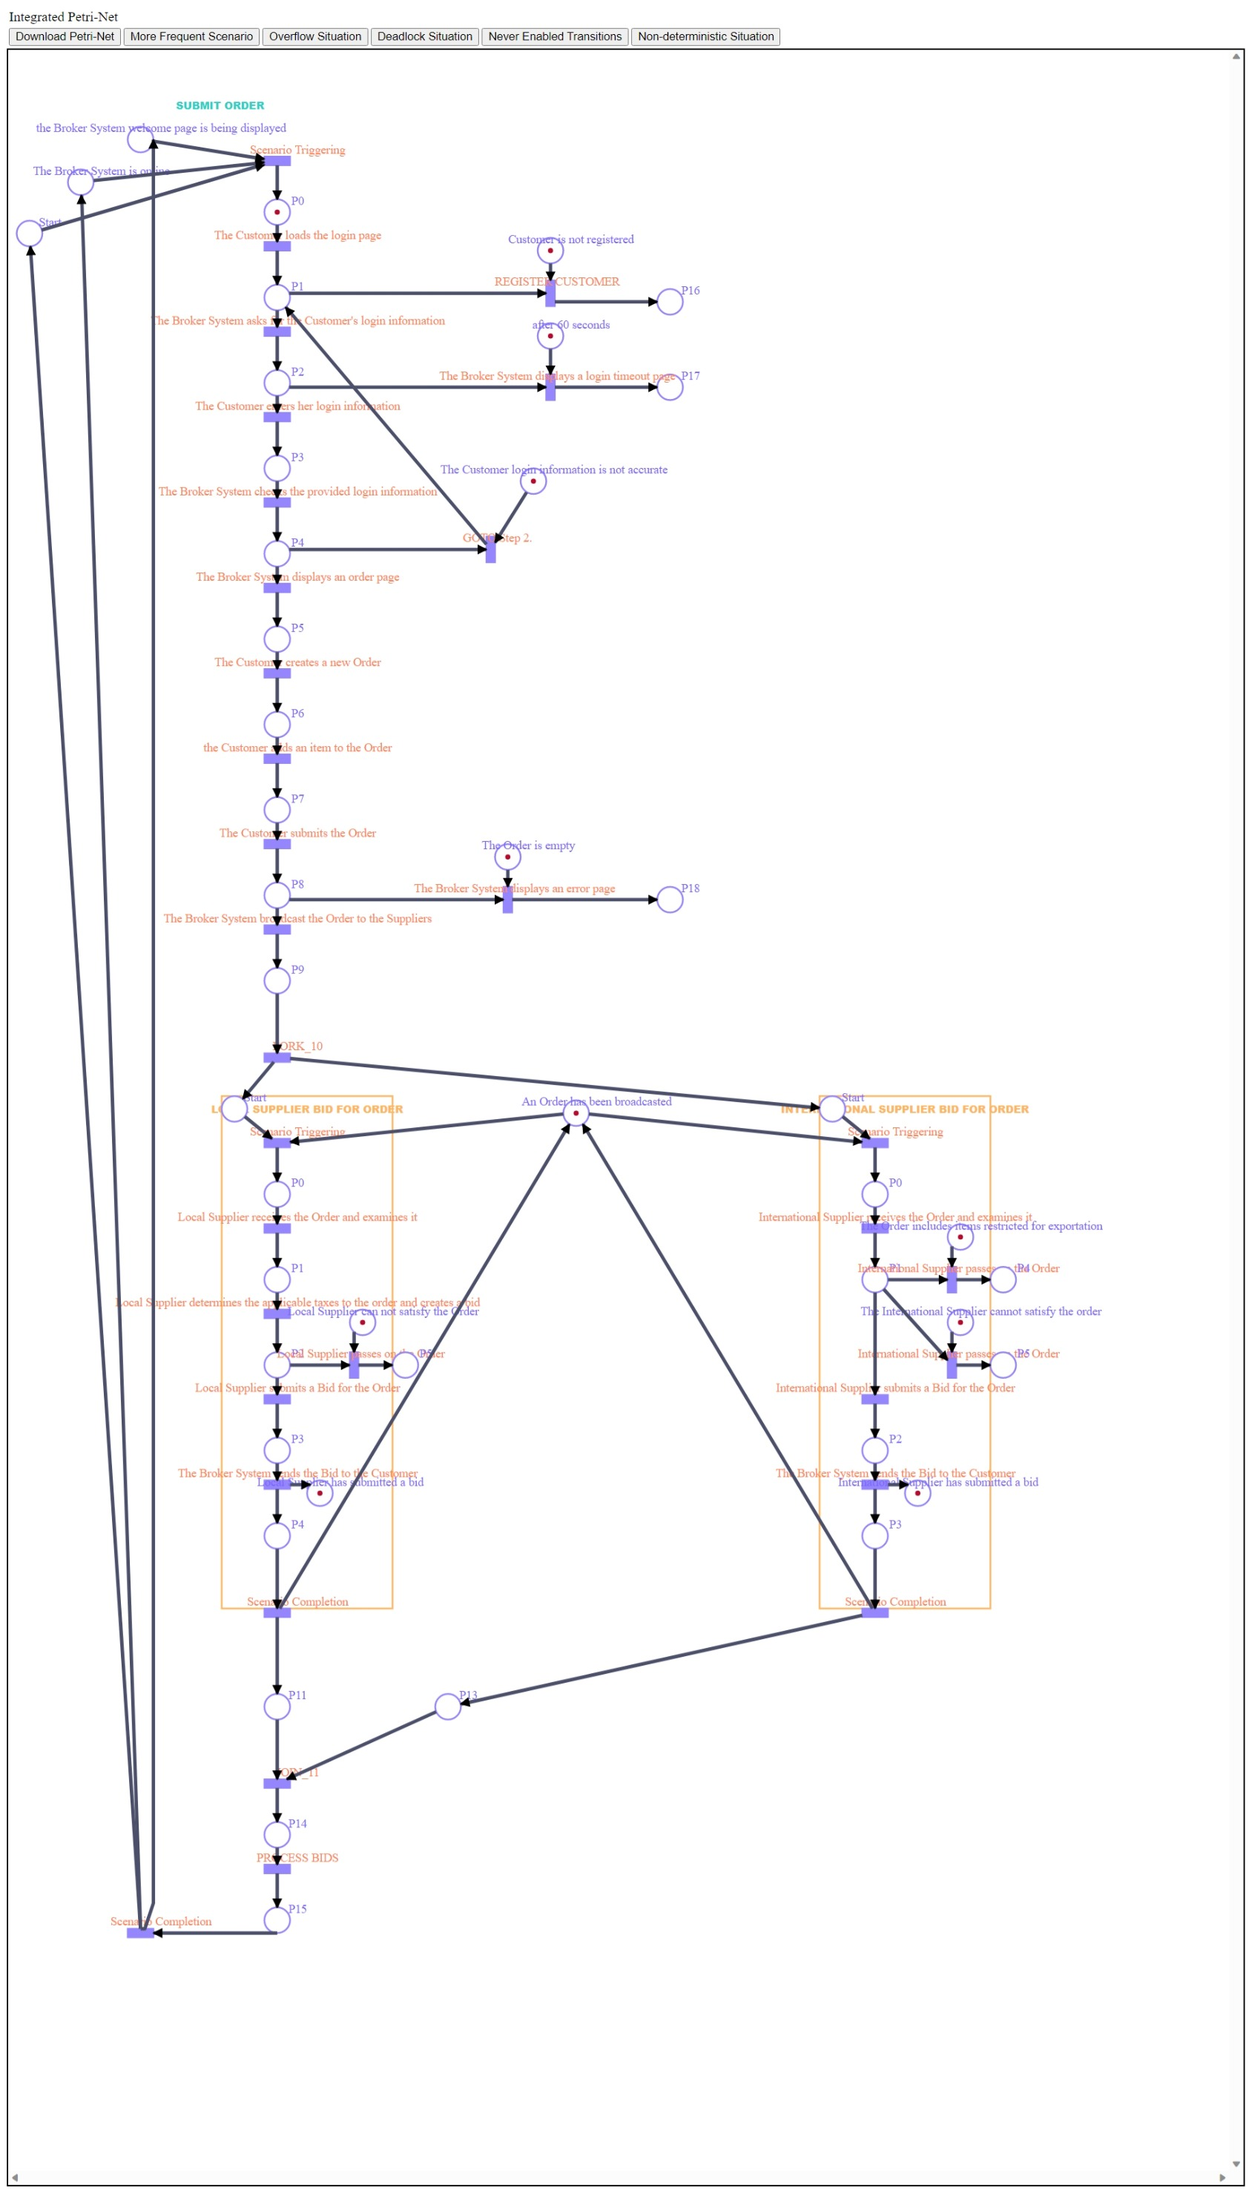
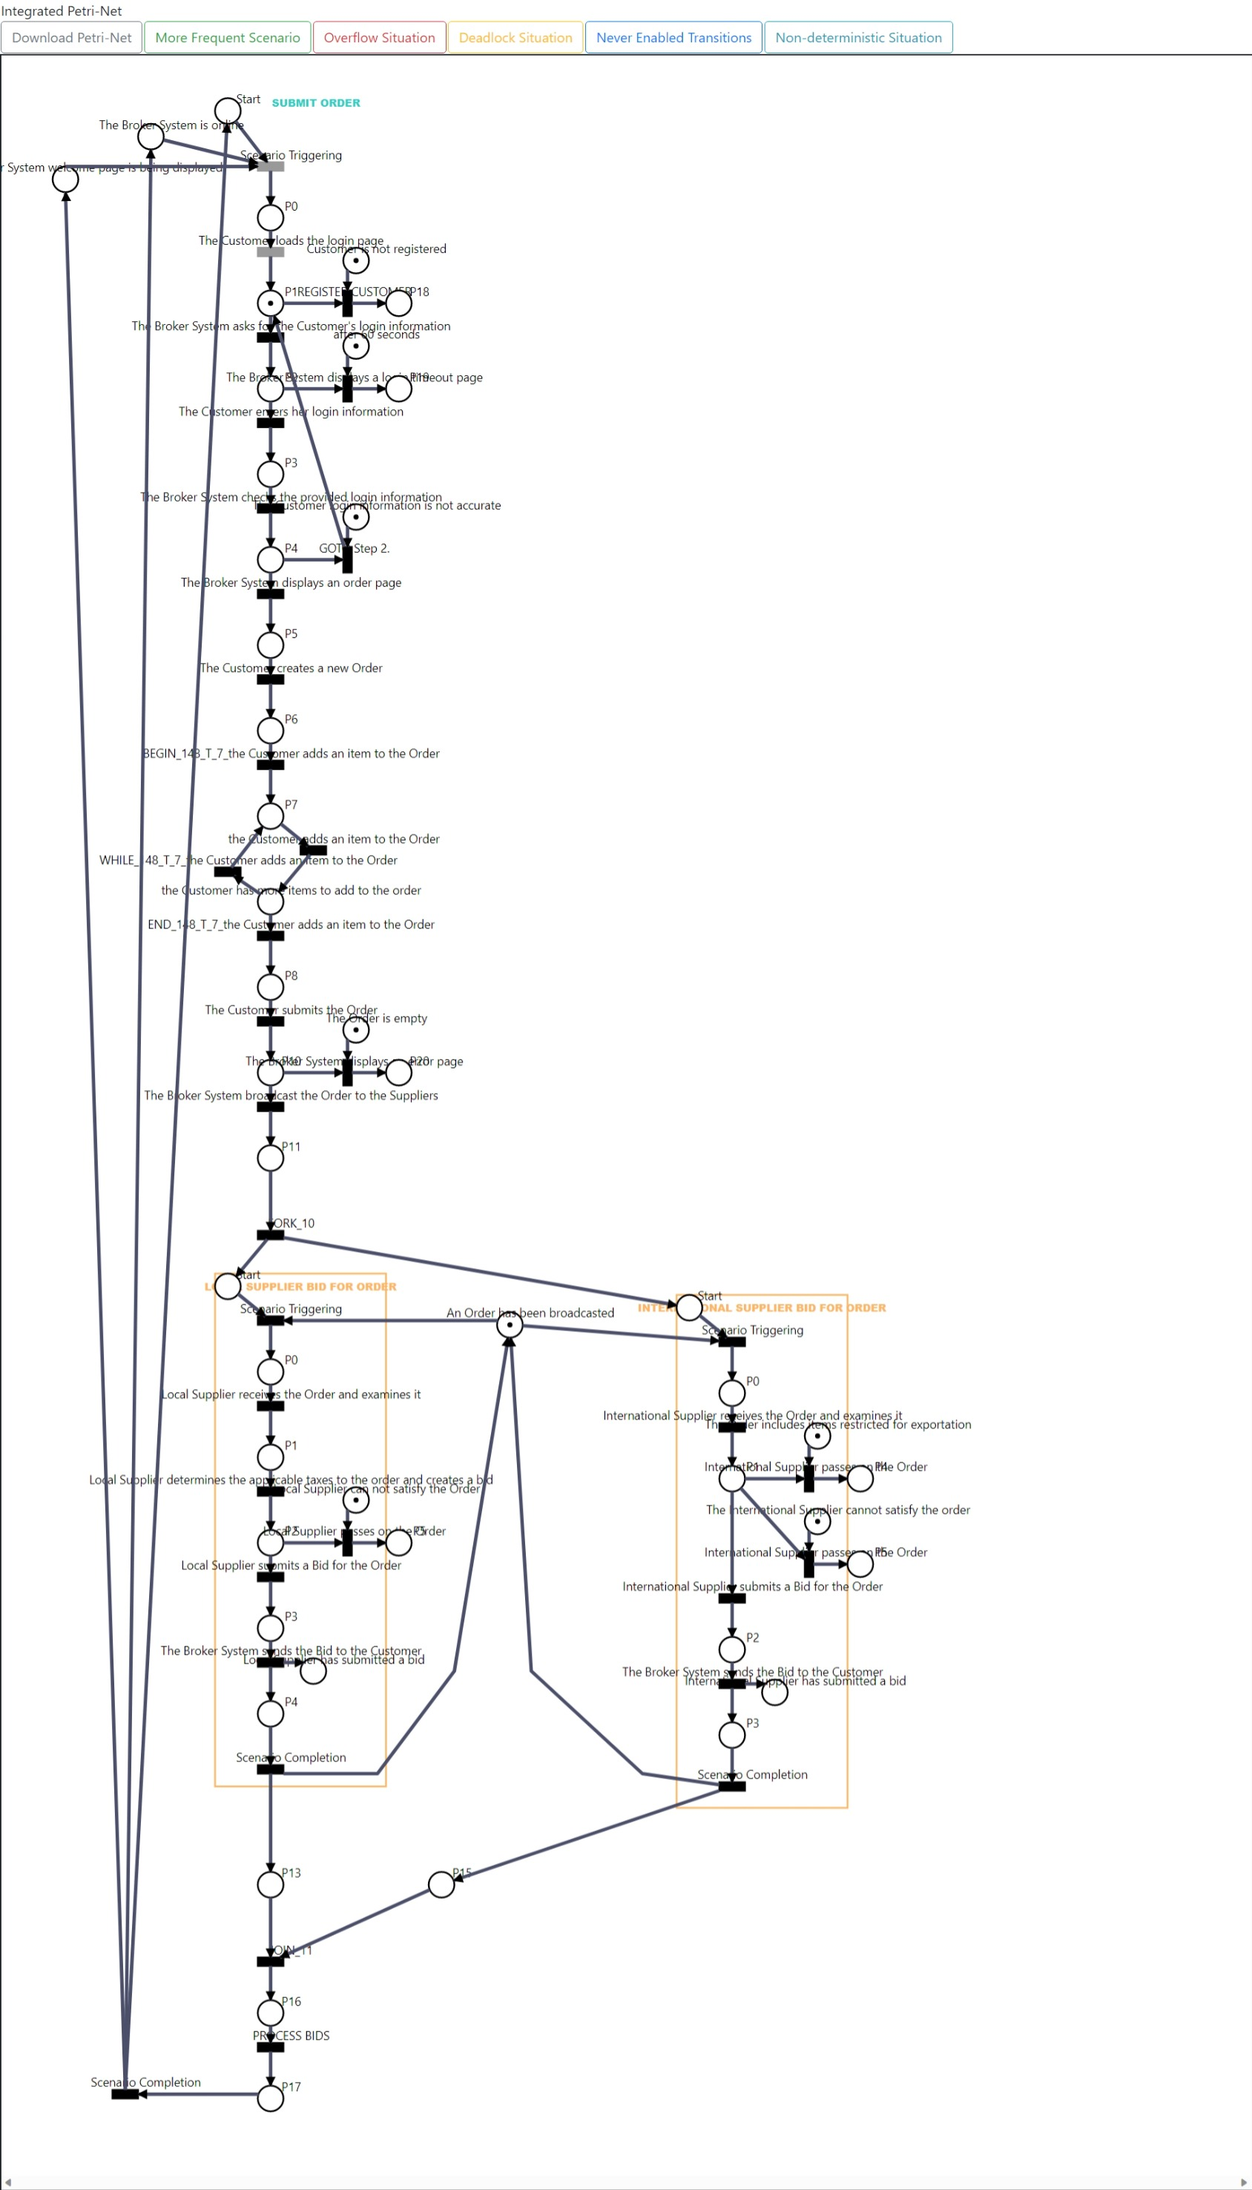
Update Petri-Net Analysis - Execution

diff --git a/src/main/webapp/assets/js/app/ajax_functions_petri_nets_joint.js b/src/main/webapp/assets/js/app/ajax_functions_petri_nets_joint.js
@@ -194,7 +194,7 @@ function linkById(a_id, b_id) {
 }
 
 //Petri Net Simulation
-function fireTransition(t, sec) {
+function fireTransition(t, sec, color_hex_mark) {
 
     var inbound = graph.getConnectedLinks(t, { inbound: true });
     var outbound = graph.getConnectedLinks(t, { outbound: true });
@@ -217,9 +217,9 @@ function fireTransition(t, sec) {
 
         placesBefore.forEach(function(p) {
             //enable transition
-			t.attr('.label/fill', '#b6092e');
-			t.attr('.root/fill', '#b6092e');
-			t.attr('.root/stroke', '#b6092e');
+			t.attr('.label/fill', color_hex_mark);
+			t.attr('.root/fill', color_hex_mark);
+			t.attr('.root/stroke', color_hex_mark);
 			// Let the execution finish before adjusting the value of tokens. So that we can loop over all transitions
             // and call fireTransition() on the original number of tokens.
             setTimeout(function() {
@@ -256,18 +256,18 @@ function fireTransition(t, sec) {
     }
 }
 // JSON transitions
-function simulate(transitions) {
+function simulate(transitions, color_hex_mark) {
 	
     transitions.forEach(function(t) {
         if (Math.random() < 0.7) {
-            fireTransition(t, 1);
+            fireTransition(t, 1, color_hex_mark);
         }
     });
 
     return setInterval(function() {
         transitions.forEach(function(t) {
             if (Math.random() < 0.7) {
-                fireTransition(t, 1);
+                fireTransition(t, 1, color_hex_mark);
             }
         });
     }, 2000);
@@ -278,7 +278,7 @@ function simulateHappyPath(transitions) {
 	if(simulationId != null)
 		stopSimulation(simulationId);
     
-    simulate(transitions);
+    simulate(transitions, "#4b9f27");
 }
 
 function simulateDeadlock(pathToDeadlock) {
@@ -299,7 +299,7 @@ function simulateDeadlock(pathToDeadlock) {
 		
 	}
 	
-	simulate(transitions);
+	simulate(transitions, "#E1AD0F");
 	
 }
 
@@ -347,10 +347,10 @@ function simulateNeverEnabledTransitions(neverEnabledTransitions) {
 	}
 	
 	transitions.forEach(function(t) {		
-		t.attr('.label/fill', '#f44336');
+		t.attr('.label/fill', '#1D61E1');
 		
-		t.attr('.root/fill', '#f44336');
-		t.attr('.root/stroke', '#f44336');
+		t.attr('.root/fill', '#1D61E1');
+		t.attr('.root/stroke', '#1D61E1');
 	});
 }
 
@@ -376,10 +376,10 @@ function simulateNonDeterminism(nonDeterminismTransitions) {
 	}
 	
 	transitions.forEach(function(t) {		
-		t.attr('.label/fill', '#f44336');
+		t.attr('.label/fill', '#25A4C2');
 		
-		t.attr('.root/fill', '#f44336');
-		t.attr('.root/stroke', '#f44336');
+		t.attr('.root/fill', '#25A4C2');
+		t.attr('.root/stroke', '#25A4C2');
 	});
 }
 
@@ -461,7 +461,7 @@ function show_petri_net(scenario_id){
 					
 				}	
 				
-				else if (type_node == "TRANSITION" || type_node == "TRANSITION_ALTERNATIVE") {
+				else if (type_node == "TRANSITION" || type_node == "TRANSITION_ALTERNATIVE"  || type_node == "TRANSITION_ELSE"  || type_node == "TRANSITION_DO_WHILE") {
 					var transition = createTransition(id_node, name_node, pos_x_node, pos_y_node, orientation_node);
 					jsonNodes.push(transition);
 					if (type_node == "TRANSITION")
@@ -636,7 +636,7 @@ function show_integrated_petri_net(project_id, scenario_id){
 						
 					}
 					
-				} else if (type_node == "TRANSITION" || type_node == "TRANSITION_ALTERNATIVE") {
+				} else if (type_node == "TRANSITION" || type_node == "TRANSITION_ALTERNATIVE"  || type_node == "TRANSITION_ELSE"  || type_node == "TRANSITION_DO_WHILE") {
 					var transition = createTransition(id_node, name_node, pos_x_node, pos_y_node, orientation_node);
 					jsonNodes.push(transition);
 					if (type_node == "TRANSITION")

diff --git a/src/main/java/pe/edu/unsa/daisi/lis/cel/service/PetriNetServiceImpl.java b/src/main/java/pe/edu/unsa/daisi/lis/cel/service/PetriNetServiceImpl.java
@@ -329,7 +329,7 @@ public class PetriNetServiceImpl implements IPetriNetService {
 				if(episode.isConditional() || episode.isOptional()) {//transitionEpisodeSentence.getLabel()+"_ELSE",
 					dummyTransition = new Node("ELSE_"+transitionEpisodeSentence.getLabel(),
 							scenario.getId() +LABEL_COMPONENTS_DELIMITER+ NodeTypeEnum.TRANSITION.getAcronym() + LABEL_COMPONENTS_DELIMITER + episodeId + LABEL_COMPONENTS_DELIMITER + "ELSE",
-							ScenarioElement.EPISODE_SENTENCE.getScenarioElement().replace("<id>", episodeId), NodeTypeEnum.TRANSITION);
+							ScenarioElement.EPISODE_SENTENCE.getScenarioElement().replace("<id>", episodeId), NodeTypeEnum.TRANSITION_ELSE);
 
 					//dummyTransition.setTimed(true);
 					dummyTransition.setDummy(true);
@@ -346,35 +346,39 @@ public class PetriNetServiceImpl implements IPetriNetService {
 
 					//Conditions
 					currentPositionX = transitionEpisodeSentence.getPositionX();
-					for(String condition : episode.getConditions()) {
-						if(condition != null && !condition.isEmpty()) {
-							Node node = new Node(condition, condition, ScenarioElement.EPISODE_CONDITION.getScenarioElement().replace("<id>", episodeId), NodeTypeEnum.PLACE_WITH_TOKEN);
-							node.setTokens(1);
-							currentPositionX = currentPositionX - INCREMENT_X;
-							node.setPositionX(currentPositionX);
-							node.setPositionY(currentPositionY - INCREMENT_Y);
-							node = petriNet.addNode( node);
-
-							if(petriNet.getMinPositionX() > node.getPositionX())
-								petriNet.setMinPositionX(node.getPositionX());
-
-
-							arc = new Arc(ArcTypeEnum.ARC, node, transitionEpisodeSentence);
-							arc = petriNet.addArc( arc);
-							//arc = new Arc(ArcType.ARC, transitionEpisodeSentence, node);
-							//petriNet = addArc( arc);
-						}
-					}
+					
+					//Update input dummy place with conditions
+					String conditions = String.join("|", episode.getConditions());
+					inputDummyPlace.setName(conditions);
+					inputDummyPlace.setLabel(conditions);
+					inputDummyPlace.setTrace(ScenarioElement.EPISODE_CONDITION.getScenarioElement().replace("<id>", episodeId));
+					inputDummyPlace = petriNet.updateNodeById(inputDummyPlace);
+					
+//					for(String condition : episode.getConditions()) {
+//						if(condition != null && !condition.isEmpty()) {
+//							Node node = new Node(condition, condition, ScenarioElement.EPISODE_CONDITION.getScenarioElement().replace("<id>", episodeId), NodeTypeEnum.PLACE_WITH_TOKEN);
+//							node.setTokens(1);
+//							currentPositionX = currentPositionX - INCREMENT_X;
+//							node.setPositionX(currentPositionX);
+//							node.setPositionY(currentPositionY - INCREMENT_Y);
+//							node = petriNet.addNode( node);
+//
+//							if(petriNet.getMinPositionX() > node.getPositionX())
+//								petriNet.setMinPositionX(node.getPositionX());
+//
+//							arc = new Arc(ArcTypeEnum.ARC, node, transitionEpisodeSentence);
+//							petriNet.addArc( arc);						
+//						}
+//					}
 
 				}
-				currentPositionY = outputDummyPlace.getPositionY();
 				currentPositionY = outputDummyPlace.getPositionY();
 				
 				lastTransitionEpisode = transitionEpisodeSentence;
 
 			}
 
-			if(episode.isIterativeDoWhile() || episode.isIterativeWhileDo() || episode.isIterativeForEachDo()) {//transitionEpisodeSentence.getLabel()+"_WHILE",
+			if(episode.isIterativeDoWhile() || episode.isIterativeWhileDo() || episode.isIterativeForEachDo()) {
 				//BEGIN transition
 				Node beginStructTransition = new Node("BEGIN_"+transitionEpisodeSentence.getLabel(),
 						scenario.getId() +LABEL_COMPONENTS_DELIMITER+ NodeTypeEnum.TRANSITION.getAcronym() + LABEL_COMPONENTS_DELIMITER + episodeId + LABEL_COMPONENTS_DELIMITER + "BEGIN",
@@ -425,7 +429,7 @@ public class PetriNetServiceImpl implements IPetriNetService {
 				arc = new Arc(ArcTypeEnum.ARC, inputDummyPlace, beginStructTransition);
 				arc = petriNet.addArc(arc);
 
-				//Create Output Place of BEGIN transition
+				//Create Output Place of BEGIN transition - ODPL
 				Node outDummyPlaceLoopBegin = new Node(NodeTypeEnum.PLACE.getAcronym()+countDummyPlaces, NodeTypeEnum.PLACE.getAcronym()+countDummyPlaces, ScenarioElement.EPISODE_ID.getScenarioElement().replace("<id>", episodeId), NodeTypeEnum.PLACE);
 				outDummyPlaceLoopBegin.setDummy(true);
 				outDummyPlaceLoopBegin.setPositionX(currentPositionX);
@@ -470,14 +474,14 @@ public class PetriNetServiceImpl implements IPetriNetService {
 
 				}
 
-				//Create Xput Place
-				Node xDummyPlaceLoop = new Node(NodeTypeEnum.PLACE.getAcronym()+countDummyPlaces, NodeTypeEnum.PLACE.getAcronym()+countDummyPlaces, ScenarioElement.EPISODE_ID.getScenarioElement().replace("<id>", episodeId), NodeTypeEnum.PLACE);
-				xDummyPlaceLoop.setDummy(true);
-				xDummyPlaceLoop.setPositionX(currentPositionX - INCREMENT_X);
-				xDummyPlaceLoop.setPositionY(currentPositionY + INCREMENT_Y);
-
-				xDummyPlaceLoop = petriNet.addNode(xDummyPlaceLoop);
-				countDummyPlaces++;
+				//Create Xput Place - XDPL
+//				Node xDummyPlaceLoop = new Node(NodeTypeEnum.PLACE.getAcronym()+countDummyPlaces, NodeTypeEnum.PLACE.getAcronym()+countDummyPlaces, ScenarioElement.EPISODE_ID.getScenarioElement().replace("<id>", episodeId), NodeTypeEnum.PLACE);
+//				xDummyPlaceLoop.setDummy(true);
+//				xDummyPlaceLoop.setPositionX(currentPositionX - INCREMENT_X);
+//				xDummyPlaceLoop.setPositionY(currentPositionY + INCREMENT_Y);
+//
+//				xDummyPlaceLoop = petriNet.addNode(xDummyPlaceLoop);
+//				countDummyPlaces++;
 
 				//END transition
 				Node endStructTransition = new Node("END_"+transitionEpisodeSentence.getLabel(),
@@ -486,9 +490,11 @@ public class PetriNetServiceImpl implements IPetriNetService {
 
 				//endStructTransition.setTimed(true);
 				endStructTransition.setDummy(true);
-				currentPositionX = xDummyPlaceLoop.getPositionX();
-				endStructTransition.setPositionX(currentPositionX + INCREMENT_X);
-				currentPositionY = xDummyPlaceLoop.getPositionY() + INCREMENT_Y;
+				//currentPositionX = xDummyPlaceLoop.getPositionX();
+				currentPositionX = transitionEpisodeSentence.getPositionX();
+				endStructTransition.setPositionX(currentPositionX - INCREMENT_X);
+				//currentPositionY = xDummyPlaceLoop.getPositionY() + INCREMENT_Y;
+				currentPositionY = transitionEpisodeSentence.getPositionY() + 2*INCREMENT_Y;
 				endStructTransition.setPositionY(currentPositionY);
 				
 				endStructTransition = petriNet.addNode(endStructTransition);
@@ -537,16 +543,16 @@ public class PetriNetServiceImpl implements IPetriNetService {
 
 
 				Node dummyTransition = null;
-				currentPositionX = transitionEpisodeSentence.getPositionX();
+				//currentPositionX = transitionEpisodeSentence.getPositionX();
 				//Create Input Places and transitions from DO-WHILE episode
 				if(episode.isIterativeDoWhile()) {//transitionEpisodeSentence.getLabel()+"_WHILE",
 					dummyTransition = new Node("WHILE_"+transitionEpisodeSentence.getLabel(),
 							scenario.getId() +LABEL_COMPONENTS_DELIMITER+ NodeTypeEnum.TRANSITION.getAcronym() + LABEL_COMPONENTS_DELIMITER + episodeId + LABEL_COMPONENTS_DELIMITER + "WHILE",
-							ScenarioElement.EPISODE_SENTENCE.getScenarioElement().replace("<id>", episodeId), NodeTypeEnum.TRANSITION);
+							ScenarioElement.EPISODE_SENTENCE.getScenarioElement().replace("<id>", episodeId), NodeTypeEnum.TRANSITION_DO_WHILE);
 
 					//dummyTransition.setTimed(true);
 					dummyTransition.setDummy(true);
-					dummyTransition.setPositionX(currentPositionX - 2*INCREMENT_X);
+					dummyTransition.setPositionX(currentPositionX - INCREMENT_X);
 					dummyTransition.setPositionY(transitionEpisodeSentence.getPositionY() + SMALL_INCREMENT_Y);
 					dummyTransition = petriNet.addNode(dummyTransition);
 					//countTransitions++;
@@ -557,36 +563,44 @@ public class PetriNetServiceImpl implements IPetriNetService {
 					arc = new Arc(ArcTypeEnum.ARC, outDummyPlaceLoopBegin, transitionEpisodeSentence);
 					arc = petriNet.addArc(arc);
 
-					arc = new Arc(ArcTypeEnum.ARC, transitionEpisodeSentence, xDummyPlaceLoop);
-					arc = petriNet.addArc(arc);
-
-					arc = new Arc(ArcTypeEnum.ARC, xDummyPlaceLoop, dummyTransition);
-					arc = petriNet.addArc(arc);
-
-					arc = new Arc(ArcTypeEnum.ARC, xDummyPlaceLoop, endStructTransition);
-					arc = petriNet.addArc(arc);
-
-
 					//Conditions
-					currentPositionX = dummyTransition.getPositionX();
-					for(String condition : episode.getConditions()) {
-						if(condition != null && !condition.isEmpty()) {
-							Node node = new Node(condition, condition, ScenarioElement.EPISODE_CONDITION.getScenarioElement().replace("<id>", episodeId), NodeTypeEnum.PLACE_WITH_TOKEN);
-							node.setTokens(1);
-							currentPositionX = currentPositionX - INCREMENT_X;
-							node.setPositionX(currentPositionX);
-							node.setPositionY(dummyTransition.getPositionY() - INCREMENT_Y);
-							node = petriNet.addNode( node);
+					//currentPositionX = dummyTransition.getPositionX();
+//					for(String condition : episode.getConditions()) {
+//						if(condition != null && !condition.isEmpty()) {
+//							Node node = new Node(condition, condition, ScenarioElement.EPISODE_CONDITION.getScenarioElement().replace("<id>", episodeId), NodeTypeEnum.PLACE_WITH_TOKEN);
+//							node.setTokens(1);
+//							currentPositionX = currentPositionX - INCREMENT_X;
+//							node.setPositionX(currentPositionX);
+//							node.setPositionY(dummyTransition.getPositionY() - INCREMENT_Y);
+//							node = petriNet.addNode( node);
+//
+//							if(petriNet.getMinPositionX() > node.getPositionX())
+//								petriNet.setMinPositionX(node.getPositionX());
+//
+//							arc = new Arc(ArcTypeEnum.ARC, node, dummyTransition);
+//							petriNet.addArc( arc);							
+//						}
+//					}
+					
+					//Update input dummy place with conditions
+					currentPositionX = endStructTransition.getPositionX();
+					currentPositionY = endStructTransition.getPositionY() + INCREMENT_Y ;
+					String conditions = String.join("|", episode.getConditions());
+					Node conditionsPlace = new Node(conditions, conditions, ScenarioElement.EPISODE_CONDITION.getScenarioElement().replace("<id>", episodeId), NodeTypeEnum.PLACE);
+					conditionsPlace.setPositionX(currentPositionX);
+					conditionsPlace.setPositionY(currentPositionY - 2*INCREMENT_Y);	
+					conditionsPlace = petriNet.addNode(conditionsPlace);
+					countDummyPlaces++;
+					
+					arc = new Arc(ArcTypeEnum.ARC, transitionEpisodeSentence, conditionsPlace);
+					petriNet.addArc(arc);
 
-							if(petriNet.getMinPositionX() > node.getPositionX())
-								petriNet.setMinPositionX(node.getPositionX());
+					arc = new Arc(ArcTypeEnum.ARC, conditionsPlace, dummyTransition);
+					petriNet.addArc(arc);
 
-							arc = new Arc(ArcTypeEnum.ARC, node, dummyTransition);
-							arc = petriNet.addArc( arc);
-							//arc = new Arc(ArcType.ARC, dummyTransition, node);
-							//petriNet = addArc( arc);
-						}
-					}
+					arc = new Arc(ArcTypeEnum.ARC, conditionsPlace, endStructTransition);
+					petriNet.addArc(arc);			
+
 
 				}
 
@@ -606,11 +620,11 @@ public class PetriNetServiceImpl implements IPetriNetService {
 					arc = new Arc(ArcTypeEnum.ARC, outDummyPlaceLoopBegin, dummyTransition);
 					arc = petriNet.addArc(arc);
 
-					arc = new Arc(ArcTypeEnum.ARC, dummyTransition, xDummyPlaceLoop);
-					arc = petriNet.addArc(arc);
-
-					arc = new Arc(ArcTypeEnum.ARC, xDummyPlaceLoop, transitionEpisodeSentence);
-					arc = petriNet.addArc(arc);
+//					arc = new Arc(ArcTypeEnum.ARC, dummyTransition, xDummyPlaceLoop);
+//					arc = petriNet.addArc(arc);
+//
+//					arc = new Arc(ArcTypeEnum.ARC, xDummyPlaceLoop, transitionEpisodeSentence);
+//					arc = petriNet.addArc(arc);
 
 					arc = new Arc(ArcTypeEnum.ARC, transitionEpisodeSentence, outDummyPlaceLoopBegin);
 					arc = petriNet.addArc(arc);
@@ -657,11 +671,11 @@ public class PetriNetServiceImpl implements IPetriNetService {
 					arc = new Arc(ArcTypeEnum.ARC, outDummyPlaceLoopBegin, dummyTransition);
 					arc = petriNet.addArc(arc);
 
-					arc = new Arc(ArcTypeEnum.ARC, dummyTransition, xDummyPlaceLoop);
-					arc = petriNet.addArc(arc);
-
-					arc = new Arc(ArcTypeEnum.ARC, xDummyPlaceLoop, transitionEpisodeSentence);
-					arc = petriNet.addArc(arc);
+//					arc = new Arc(ArcTypeEnum.ARC, dummyTransition, xDummyPlaceLoop);
+//					arc = petriNet.addArc(arc);
+//
+//					arc = new Arc(ArcTypeEnum.ARC, xDummyPlaceLoop, transitionEpisodeSentence);
+//					arc = petriNet.addArc(arc);
 
 					arc = new Arc(ArcTypeEnum.ARC, transitionEpisodeSentence, outDummyPlaceLoopBegin);
 					arc = petriNet.addArc(arc);

diff --git a/src/main/java/pe/edu/unsa/daisi/lis/cel/domain/model/petrinet/NodeTypeEnum.java b/src/main/java/pe/edu/unsa/daisi/lis/cel/domain/model/petrinet/NodeTypeEnum.java
@@ -12,7 +12,9 @@ public enum NodeTypeEnum implements Serializable{
 	PLACE("P", "PLACE"),
 	PLACE_WITH_TOKEN("PT", "PLACE WITH TOKEN"),
 	TRANSITION("T", "TRANSITION FROM EPISODE"),
-	TRANSITION_ALTERNATIVE("TA", "TRANSITION FROM ALTERNATIVE");
+	TRANSITION_ALTERNATIVE("TA", "TRANSITION FROM ALTERNATIVE"),
+	TRANSITION_ELSE("TE", "DUMMY TRANSITION FROM IF-ELSE"),
+	TRANSITION_DO_WHILE("TDW", "DUMMY TRANSITION FROM DO-WHILE");
 	
 	private String acronym;
 	private String description;

diff --git a/README.md b/README.md
@@ -43,7 +43,7 @@ After the user signing in, the system presents its main interface. In this inter
     
 ##### Scenario Analysis
 The scenario analysis functionality is activated after the user selects a project or a scenario. This functionality generates a feedback containing a list of detected defects
-    <img src="https://github.com/edgarsc22/WACeL-Java/blob/master/doc/gui/scenario_analysis.png" width="700">
+    <img src="https://github.com/edgarsc22/WACeL-Java/blob/master/doc/gui/scenario_analysis.jpeg" width="700">
     
 ##### Scenario to Petri Net
 Once scenarios are constructed and pre-processed, it is possible to automatically generate Petri-Net formal models from structured scenarios. Figure below shows an integrated petri-net, i.e., petri-net was derived from a scenario and their related scenarios.
